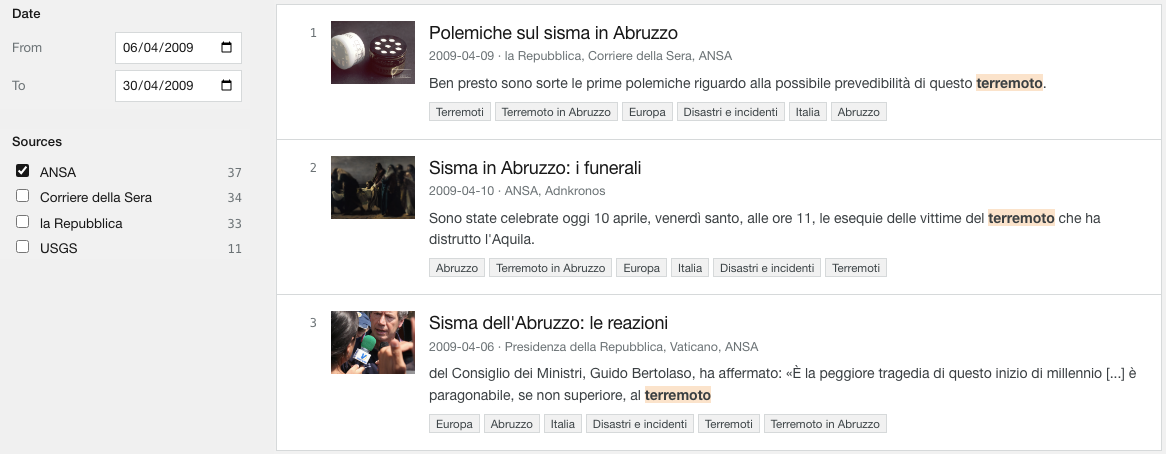
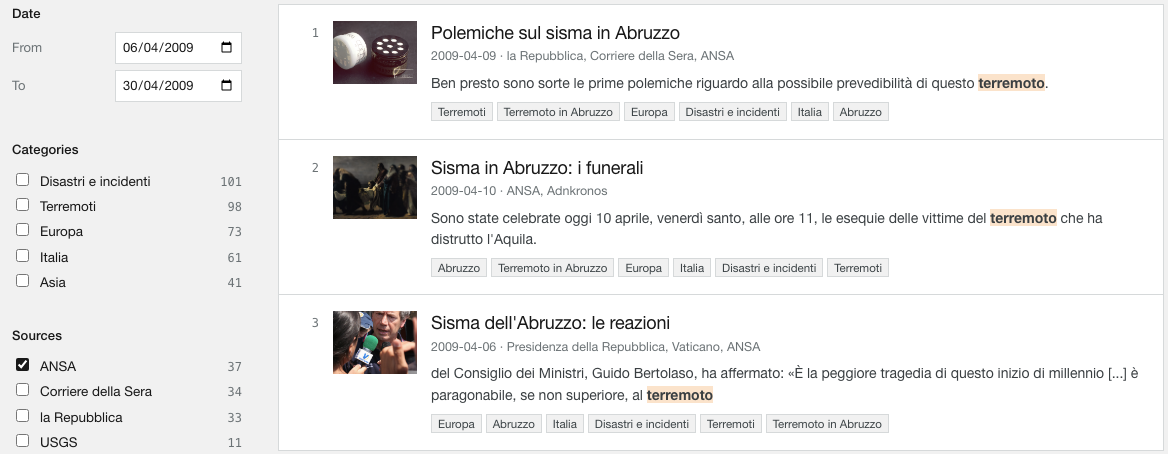
results: slide 12 screenshot with the category facet next to the sources (#20)

diff --git a/STATE.md b/STATE.md
@@ -62,6 +62,16 @@ sessions"). The session briefing lists the open ones.
 
 ## Log
 
+### 18 Nov 2026 17:34, Fabio: slide 12 screenshot shows the category facet too (#20)
+
+`results/demo/slide-filters-zoom.png` replaced (was 1166 x 454, now 1168 x 454, same size on the
+slide). It is still a montage of `results/demo/2-filters-date-agency.png`, now with three blocks
+in the left column: "Date" (112,236,362,345), the header and first five entries of "Categories"
+(112,428,362,590) and "Sources" (112,870,362,1000); the results (388,266,1280,720) on the right.
+Reason, decided by Fabio: the slide says "le faccette contano per categoria e fonte", and before
+only the source counts were visible. Nothing to run, nothing changes for the others; Daniel
+regenerates the deck with the other #20 changes of today.
+
 ### 18 Nov 2026 17:35, Daniel: demo GIF in the README
 
 Added `docs/images/demo.gif` (21 s, 960 px, 2.1 MB, blank first frames trimmed at 17:40) under the online demo link of the README,
